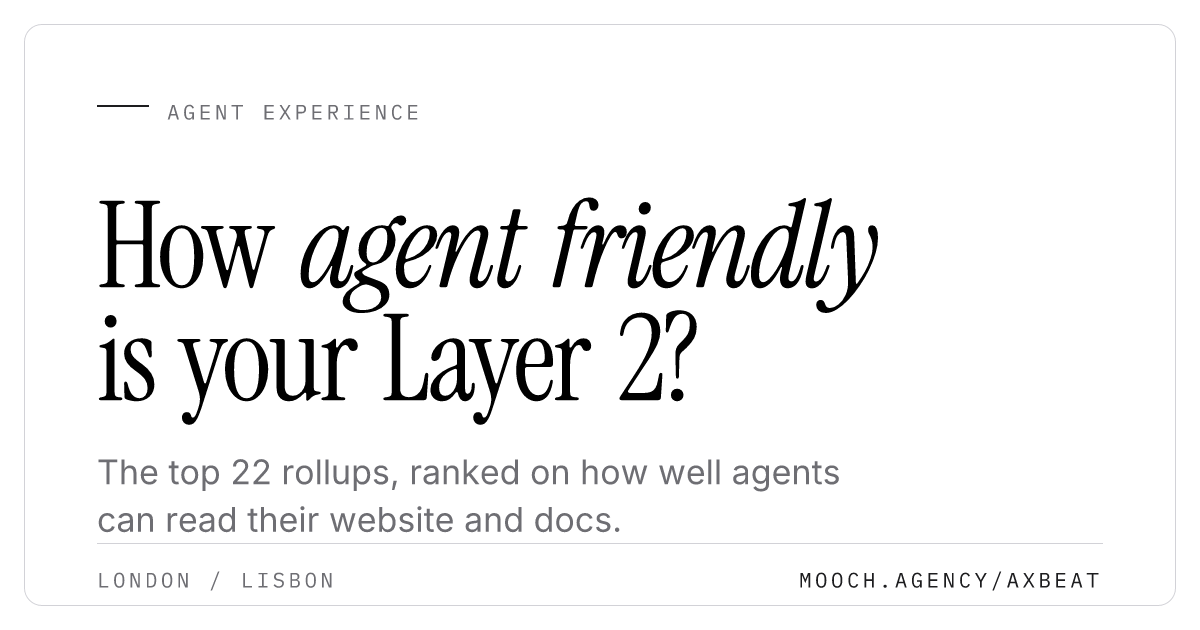
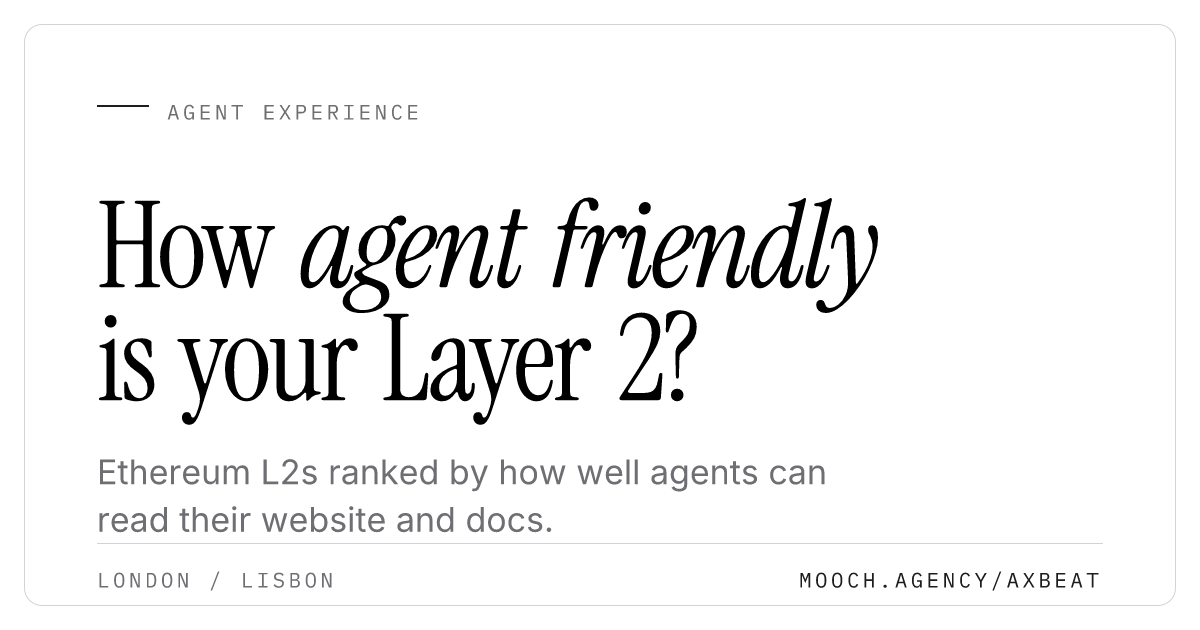
axbeat card: 'Ethereum L2s ranked by' replaces 'The top 22 rollups, ranked on'
Tahi dropped the board size from launch copy (14 Oct). Card re-rendered and
re-stamped so platforms fetch the new artwork; image alt text matches.

Changed region(s): [[0.0617, 0.7238, 0.7092, 0.7841], [0.0617, 0.8143, 0.5242, 0.8444]]

diff --git a/axbeat.html b/axbeat.html
@@ -17,15 +17,15 @@
 <meta property="og:url" content="https://mooch.agency/axbeat">
 <meta property="og:title" content="AXBeat: agent experience for the top L2s | Mooch">
 <meta property="og:description" content="AXBeat ranks the top 22 Layer 2 rollups on how easily an AI agent can read their website and docs, using Cloudflare's agent-readiness scan.">
-<meta property="og:image" content="https://mooch.agency/og-axbeat.png?v=fdc41616">
+<meta property="og:image" content="https://mooch.agency/og-axbeat.png?v=1e17d298">
 <meta property="og:image:width" content="1200">
 <meta property="og:image:height" content="630">
-<meta property="og:image:alt" content="How agent friendly is your Layer 2? The top 22 rollups, ranked on how well agents can read their website and docs.">
+<meta property="og:image:alt" content="How agent friendly is your Layer 2? Ethereum L2s ranked by how well agents can read their website and docs.">
 <meta name="twitter:card" content="summary_large_image">
 <meta name="twitter:title" content="AXBeat: agent experience for the top L2s | Mooch">
 <meta name="twitter:description" content="AXBeat ranks the top 22 Layer 2 rollups on how easily an AI agent can read their website and docs, using Cloudflare's agent-readiness scan.">
-<meta name="twitter:image" content="https://mooch.agency/og-axbeat.png?v=fdc41616">
-<meta name="twitter:image:alt" content="How agent friendly is your Layer 2? The top 22 rollups, ranked on how well agents can read their website and docs.">
+<meta name="twitter:image" content="https://mooch.agency/og-axbeat.png?v=1e17d298">
+<meta name="twitter:image:alt" content="How agent friendly is your Layer 2? Ethereum L2s ranked by how well agents can read their website and docs.">
 <link rel="preconnect" href="https://fonts.googleapis.com">
 <link rel="preconnect" href="https://fonts.gstatic.com" crossorigin>
 <link href="https://fonts.googleapis.com/css2?family=Instrument+Serif:ital@0;1&display=swap" rel="stylesheet">
